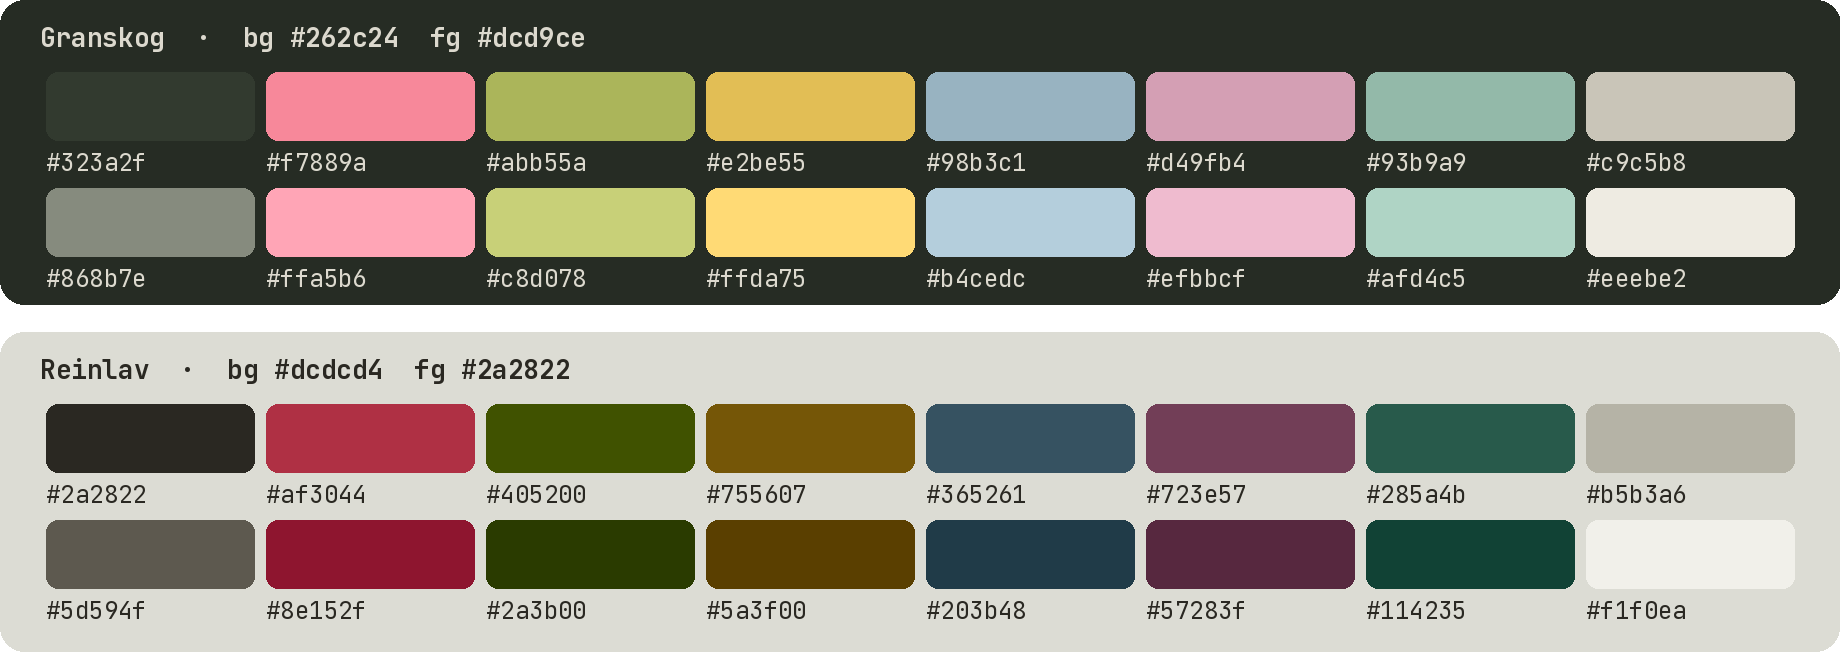
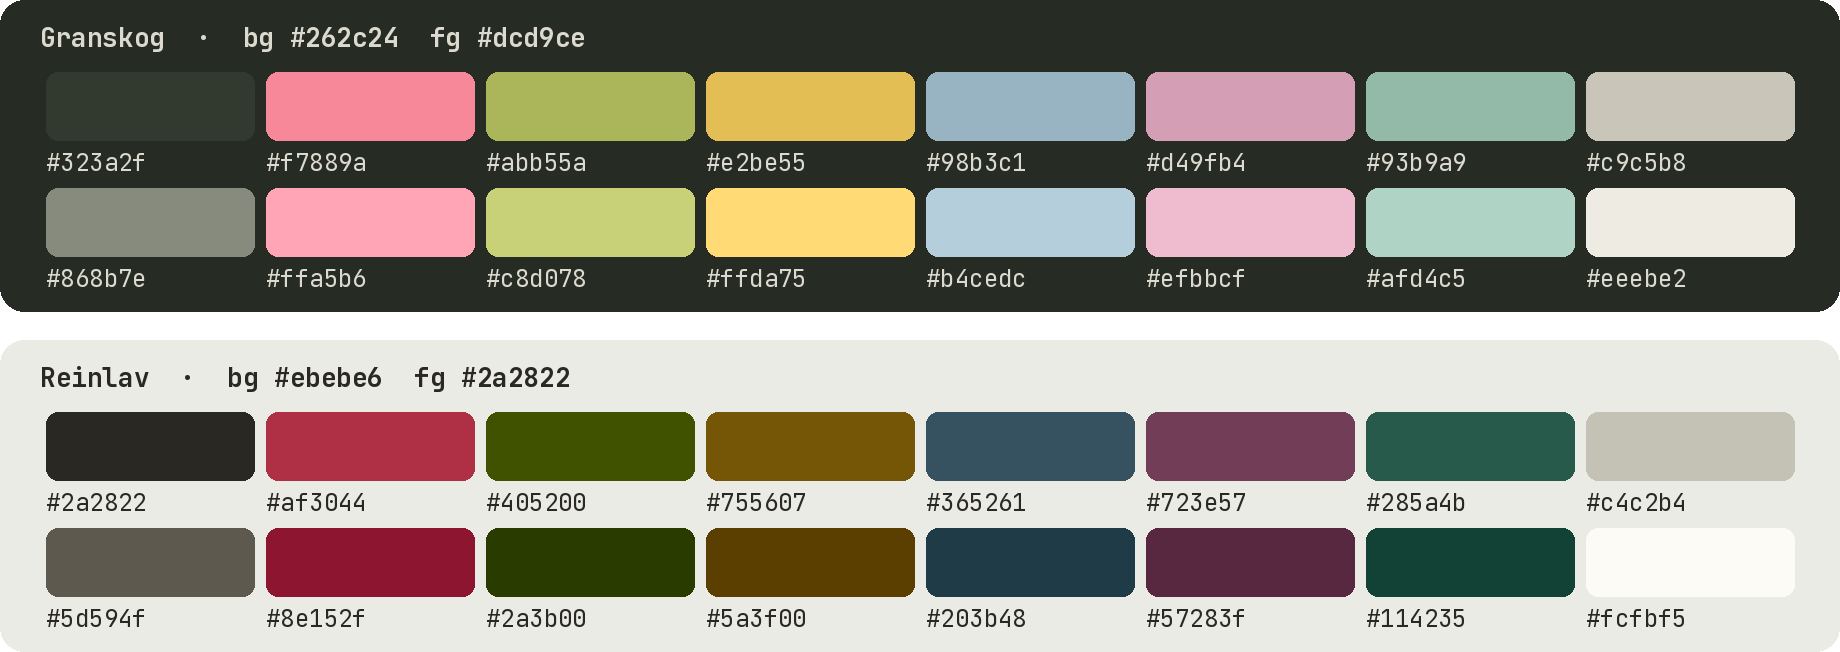
feat(reinlav): lighter lichen background
Background #dcdcd4 -> #ebebe6, sampled from the brightest lichen in the
source photos. Dependent surfaces (selection, diff, Claude Code and herdr
panels) shift by the same lightness; bright white lifted above the new
background. Foreground contrast 10.7 -> 12.3:1, lowest ANSI 4.6 -> 5.3:1.

Claude-Session: https://claude.ai/code/session_016vNXaxSvvB79mJFDMLjxqn

diff --git a/README.md b/README.md
@@ -45,9 +45,9 @@ Muted should not mean hard to read. Both themes are checked against WCAG 2 and A
 
 | | Granskog | Reinlav |
 | :- | :-: | :-: |
-| Foreground on background | 10.1 : 1 | 10.7 : 1 |
-| Lowest ANSI color (red–cyan, normal and bright) | 6.1 : 1 | 4.6 : 1 |
-| Dim text (bright black) | 4.1 : 1 | 5.1 : 1 |
+| Foreground on background | 10.1 : 1 | 12.3 : 1 |
+| Lowest ANSI color (red–cyan, normal and bright) | 6.1 : 1 | 5.3 : 1 |
+| Dim text (bright black) | 4.1 : 1 | 5.8 : 1 |
 
 - Neither background is pure black or white. That avoids glare on light themes and halation (glowing text) on dark ones.
 - Red and green are separated by lightness as well as hue, so they stay distinct with red–green color blindness (deuteranopia).
